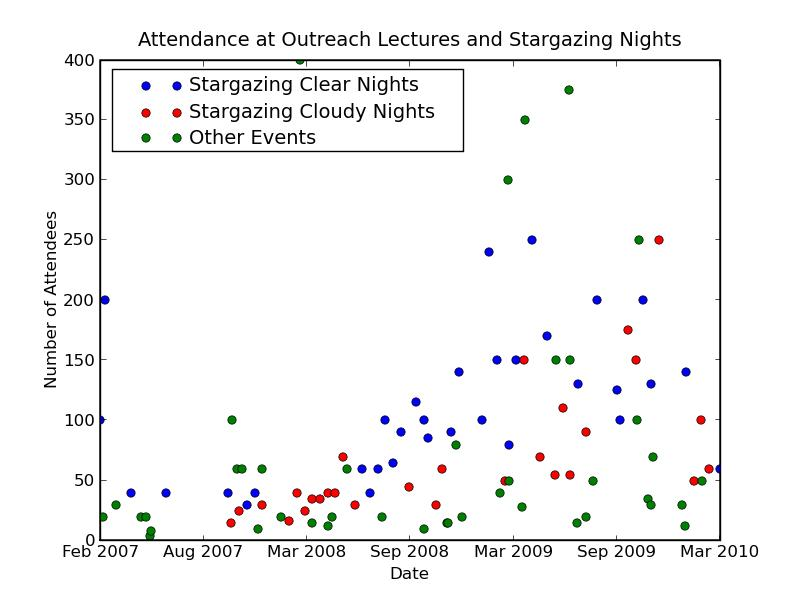
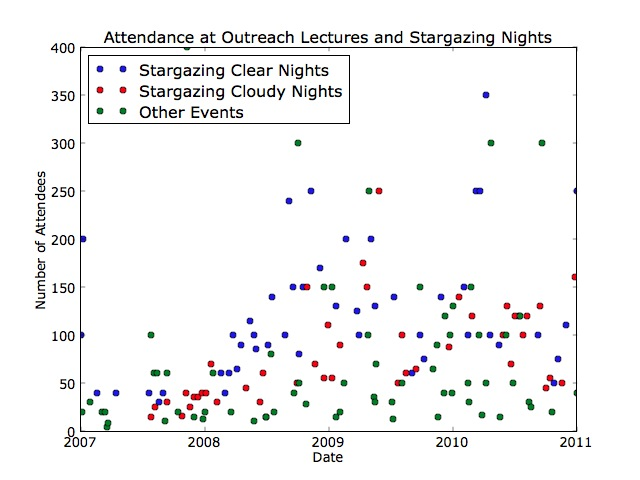
Updating everything to October 2011, and making things work with python 2.7.

diff --git a/outreach_plot.py b/outreach_plot.py
@@ -1,15 +1,16 @@
 #!/usr/bin/env python
 
 import pylab, matplotlib, datetime, matplotlib.dates
+import numpy as np
 
 # grab data from outreach_dates file and stick into arrays
 # format of text file has columns: month day year number(attendees) clear(bool)
-data = pylab.load('outreach_dates.txt')
-month = data[0:len(data),0]
-day = data[0:len(data),1]
-year = data[0:len(data),2]
-number = data[0:len(data),3]
-clear = data[0:len(data),4]
+data = np.genfromtxt('outreach_dates.txt',dtype="int32")
+month = data[:,0]
+day = data[:,1]
+year = data[:,2]
+number = data[:,3]
+clear = data[:,4]
 
 # create empty arrays for plotting against each other
 cleardates = []
@@ -22,7 +23,7 @@ othernum = []
 
 # populate the arrays with appropriate dates and corresponding turnout
 for i in range(len(month)):
-	tempdate = matplotlib.datetime.date(year[i],month[i],day[i])
+	tempdate = datetime.date(year[i],month[i],day[i])
 	newdate =  matplotlib.dates.date2num(tempdate)
 	if (clear[i] == 1):
 		cleardates.append(newdate)
@@ -45,7 +46,7 @@ pylab.legend(loc=2)
 pylab.xlabel('Date')
 pylab.ylabel('Number of Attendees')
 pylab.title('Attendance at Outreach Lectures and Stargazing Nights')
-increment = (dates[-1]-dates[0])/6.0
+increment = (dates[-1]-dates[0])/4.0
 xticklist = pylab.arange(dates[0],dates[-1],increment-0.1)
 pylab.xticks( xticklist )
 pylab.axis([dates[0],dates[-1],0,400])		# reset the axes to max at 400
